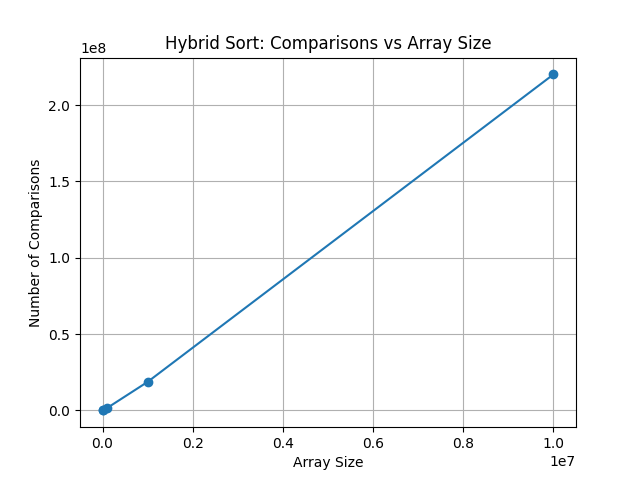
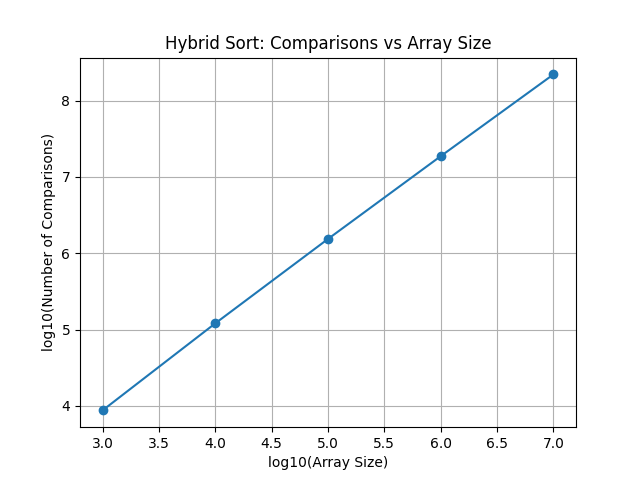
.

diff --git a/lab1/main.py b/lab1/main.py
@@ -1,3 +1,5 @@
+import json
+import math
 import random
 
 import matplotlib.pyplot as plt
@@ -13,7 +15,7 @@ from sort import hybrid_sort, merge_sort
 
 
 def plot(
-    data: list[tuple[int, int]], xlabel: str, ylabel: str, title: str, filename: str
+    data: list[tuple], xlabel: str, ylabel: str, title: str, filename: str
 ) -> None:
     x, y = zip(*data)
     plt.figure()
@@ -31,22 +33,37 @@ for i in range(3, 8):
     n = 10**i
     data[n] = [random.randint(1, n) for _ in range(n)]
 
-cmp_vs_n = [(n, hybrid_sort(data[n].copy(), 0, len(data[n]) - 1)) for n in data]
+# cmp_vs_n = [
+#     (math.log10(n), math.log10(hybrid_sort(data[n].copy(), 0, len(data[n]) - 1)))
+#     for n in data
+# ]
+# json.dump(cmp_vs_n, open("cmp_vs_n.json", "w"), indent=4)
+
+cmp_vs_n = json.load(open("cmp_vs_n.json", "r"))
 plot(
     cmp_vs_n,
-    "Array Size",
-    "Number of Comparisons",
+    "log10(Array Size)",
+    "log10(Number of Comparisons)",
     "Hybrid Sort: Comparisons vs Array Size",
     "cmp_vs_n.png",
 )
-cmp_vs_s = [
-    (t, hybrid_sort(data[1000000].copy(), 0, len(data[1000000]) - 1, threshold=t))
-    for t in range(1, 6)
-]
+# cmp_vs_s = [
+#     (
+#         t,
+#         math.log10(
+#             hybrid_sort(data[1000000].copy(), 0, len(data[1000000]) - 1, threshold=t)
+#         ),
+#     )
+#     for t in range(1, 6)
+# ]
+
+# json.dump(cmp_vs_s, open("cmp_vs_s.json", "w"), indent=4)
+cmp_vs_s = json.load(open("cmp_vs_s.json", "r"))
+
 plot(
     cmp_vs_s,
     "Threshold Size",
-    "Number of Comparisons",
+    "log10(Number of Comparisons)",
     "Hybrid Sort: Comparisons vs Threshold Size",
     "cmp_vs_s.png",
 )

diff --git a/tut/q11.py b/tut/q11.py
@@ -1,0 +1,49 @@
+from collections.abc import MutableSequence
+from itertools import permutations
+from typing import Iterable
+
+adj = [[0 for _ in range(8)] for _ in range(8)]
+edges = [(2, 3), (2, 7), (3, 1), (7, 1), (7, 6), (6, 0), (1, 0), (1, 4), (4, 5)]
+for u, v in edges:
+    adj[u][v] = 1
+vertices = [i for i in range(8)]
+
+
+def is_valid_seq(seq: Iterable[int]) -> bool:
+    index_of = [0 for _ in range(8)]
+    for i, v in enumerate(seq):
+        index_of[v] = i
+    for u, v in edges:
+        if index_of[u] > index_of[v]:
+            return False
+    return True
+
+
+sequences = permutations(vertices)
+
+n = 0
+for seq in sequences:
+    if is_valid_seq(seq):
+        n += 1
+print(n)
+# 21
+
+visited = set()
+
+
+def dfs(seq: MutableSequence[int]) -> int:
+    if not is_valid_seq(seq) or tuple(seq) in visited:
+        return 0
+    n = 1
+    visited.add(tuple(seq))
+    for i in range(7):
+        new_seq = seq[:]
+        new_seq[i], new_seq[i + 1] = new_seq[i + 1], new_seq[i]
+        n += dfs(new_seq)
+    return n
+
+
+# [C,H,D,B,E,F,G,A]
+seq = [2, 7, 3, 1, 4, 5, 6, 0]
+
+print(dfs(seq))
